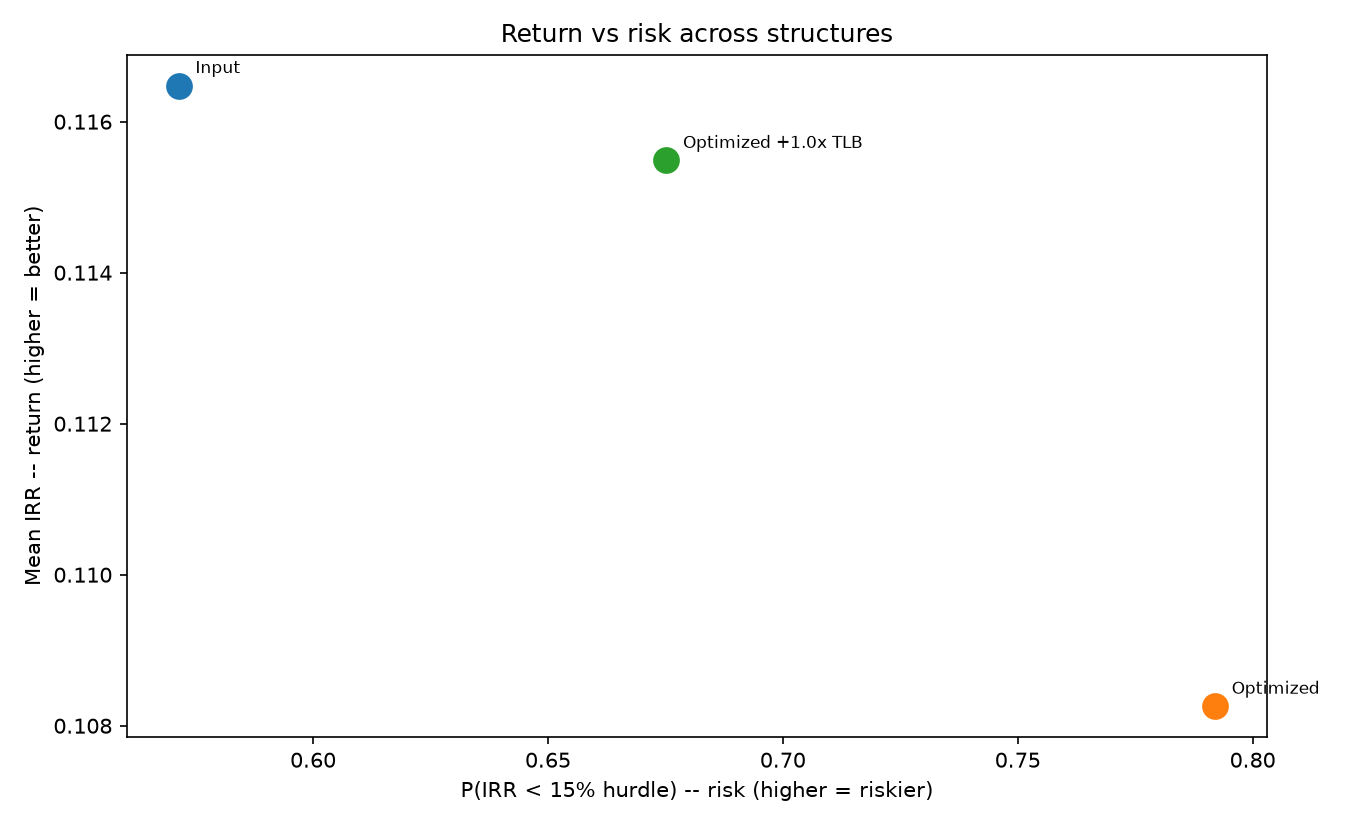
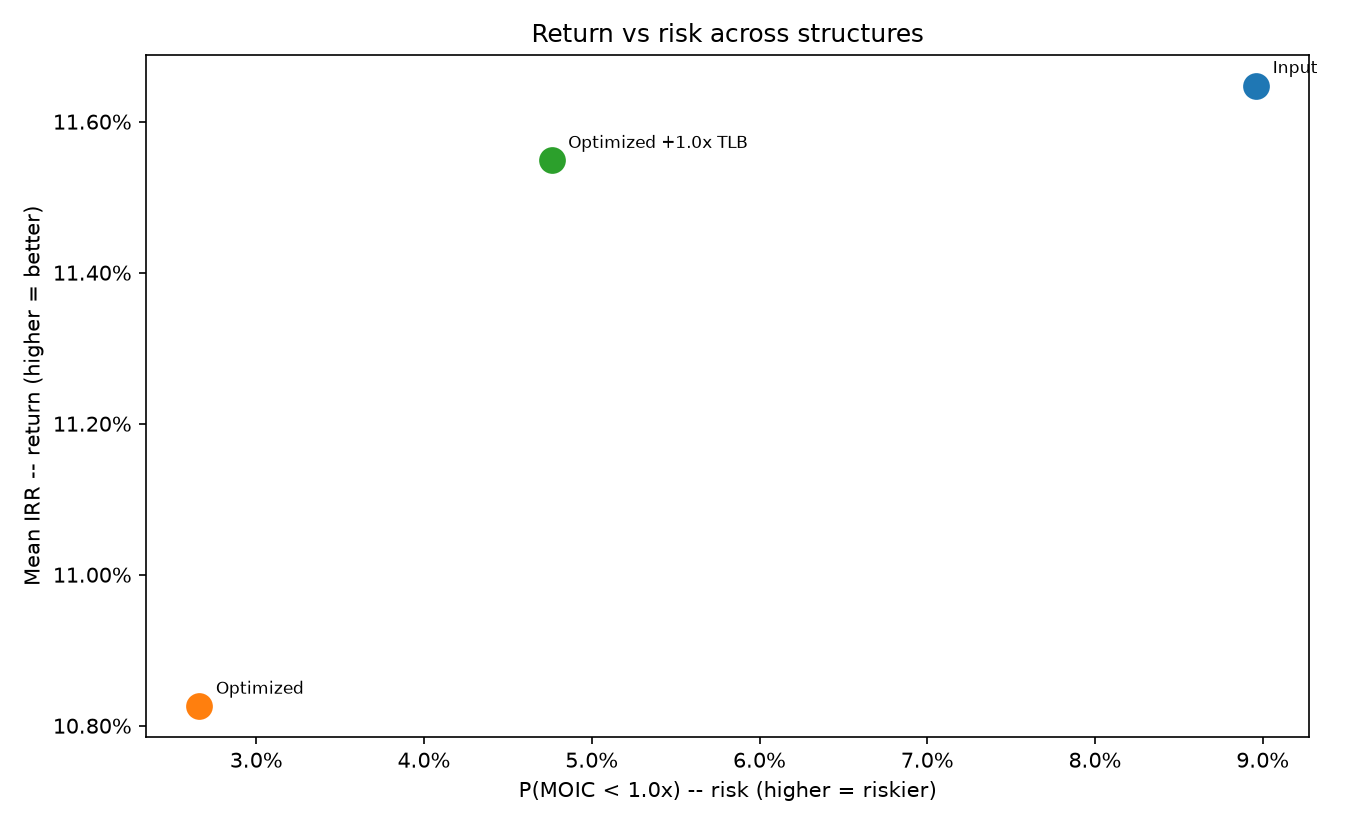
Fix return-vs-risk chart's default risk metric to P(MOIC < 1.0x)
P(IRR < hurdle) falls as leverage rises whenever leverage lifts the
median IRR above the hurdle -- it made a genuinely riskier, more levered
structure look safer on the return-vs-risk chart. Default risk_metric is
now prob_moic_below_1 (outright loss-of-capital probability), which rises
monotonically with leverage the way risk actually should.
prob_irr_below_hurdle and expected_shortfall_10pct remain selectable.

Both axes now formatted as percentages (matplotlib.ticker.PercentFormatter).

Regenerated docs/simulate/structure_comparison.png from
example_midmarket_stress.yaml with the new default. Added a test
confirming the default risk metric ranks the most levered of three
structures as riskiest on the real stress config, not a synthetic one.

corefin run/optimize output unchanged.

diff --git a/src/corefin/simulate/charts.py b/src/corefin/simulate/charts.py
@@ -11,6 +11,7 @@ matplotlib.use("Agg")  # headless: writing PNG files, no display needed
 
 import matplotlib.pyplot as plt
 import numpy as np
+from matplotlib.ticker import PercentFormatter
 
 from corefin.simulate.analytics import DownsideAnalytics
 from corefin.simulate.attribution import BridgeSummary
@@ -158,16 +159,31 @@ def render_tornado_chart(bars: list[TornadoBar], path: str) -> None:
 def render_structure_comparison_chart(
     entries: list[StructureComparisonEntry],
     path: str,
-    risk_metric: str = "prob_irr_below_hurdle",
+    risk_metric: str = "prob_moic_below_1",
 ) -> None:
     """Mean IRR (return, higher = better) against a risk measure where
     HIGHER always means riskier, so "further right and up" reads as
     unambiguously better on both axes and "further right" always reads as
-    worse on the risk axis specifically. Defaults to P(IRR < hurdle);
-    "expected_shortfall_10pct" plots the *negative* of expected shortfall
-    (still higher = riskier, since a lower/more-negative raw expected
-    shortfall is the worse outcome) as the alternative."""
-    if risk_metric == "prob_irr_below_hurdle":
+    worse on the risk axis specifically.
+
+    Defaults to P(MOIC < 1.0x) -- outright loss-of-capital probability,
+    which rises monotonically with leverage the way risk actually should.
+    P(IRR < hurdle) is *not* the default despite reading naturally as a
+    risk measure: it falls as leverage rises whenever leverage lifts the
+    median IRR above the hurdle, which would make a riskier structure
+    look safer on this chart -- still selectable via risk_metric for
+    comparison, but not the default. "expected_shortfall_10pct" plots the
+    *negative* of expected shortfall (still higher = riskier, since a
+    lower/more-negative raw expected shortfall is the worse outcome) as a
+    third alternative."""
+    if risk_metric == "prob_moic_below_1":
+
+        def risk_value(r):
+            return r.prob_moic_below_1
+
+        def risk_label(r):
+            return "P(MOIC < 1.0x) -- risk (higher = riskier)"
+    elif risk_metric == "prob_irr_below_hurdle":
 
         def risk_value(r):
             return r.prob_irr_below_hurdle
@@ -184,7 +200,7 @@ def render_structure_comparison_chart(
     else:
         raise ValueError(
             f"unknown risk_metric {risk_metric!r}, expected "
-            "'prob_irr_below_hurdle' or 'expected_shortfall_10pct'"
+            "'prob_moic_below_1', 'prob_irr_below_hurdle' or 'expected_shortfall_10pct'"
         )
 
     fig, ax = plt.subplots(figsize=(9, 5.5))
@@ -197,6 +213,8 @@ def render_structure_comparison_chart(
         )
     ax.set_xlabel(risk_label(entries[0].downside.returns) if entries else "Risk")
     ax.set_ylabel("Mean IRR -- return (higher = better)")
+    ax.xaxis.set_major_formatter(PercentFormatter(xmax=1.0))
+    ax.yaxis.set_major_formatter(PercentFormatter(xmax=1.0))
     ax.set_title("Return vs risk across structures")
     fig.tight_layout()
     fig.savefig(path, dpi=150)

diff --git a/tests/test_simulate_compare.py b/tests/test_simulate_compare.py
@@ -1,8 +1,10 @@
 import time
+from pathlib import Path
 
 import numpy as np
 import pytest
 
+from corefin.assumptions.loader import load_config
 from corefin.assumptions.schema import RootConfig
 from corefin.checks.corporate_checks import check_balance_sheet_balances
 from corefin.checks.framework import run_checks
@@ -14,6 +16,10 @@ from corefin.simulate.compare import (
 )
 from corefin.timeline import Timeline
 from tests.conftest import minimal_config_dict
+
+EXAMPLE_STRESS_CONFIG_PATH = (
+    Path(__file__).resolve().parent.parent / "configs" / "example_midmarket_stress.yaml"
+)
 
 
 def _config(n_periods: int = 6, **scenario_overrides) -> RootConfig:
@@ -156,3 +162,32 @@ def test_ten_thousand_scenarios_with_regimes_and_fat_tails_two_structures_within
     for entry in entries:
         assert entry.simulation.exit_result.irr.shape == (10_000,)
         run_checks([check_balance_sheet_balances(entry.simulation.model_result.balance_sheet)])
+
+
+def test_default_risk_metric_ranks_most_levered_structure_riskiest_on_stress_config():
+    """P(MOIC < 1.0x) -- the return-vs-risk chart's default risk_metric --
+    must rank structures by leverage the way risk actually should,
+    unlike P(IRR < hurdle) (which can fall as leverage rises). Uses the
+    real advanced-generator example config, not a synthetic one."""
+    config = load_config(EXAMPLE_STRESS_CONFIG_PATH)
+    timeline = Timeline.annual(
+        n_periods=config.timeline.n_periods,
+        n_historical=config.timeline.n_historical,
+        start_year=config.timeline.start_year,
+    )
+    input_values = input_config_decision_values(config)
+    first_dv_name = config.optimizer.decision_variables[0].tranche_name
+    named = {
+        "Low": input_values,
+        "Medium": bump_decision_values(input_values, first_dv_name, 1.0),
+        "High": bump_decision_values(input_values, first_dv_name, 2.0),
+    }
+    entries = compare_structures(config, timeline, named, n_scenarios=3000, seed=7)
+    by_name = {e.name: e for e in entries}
+
+    leverages = [by_name[n].candidate.leverage.total_leverage for n in ("Low", "Medium", "High")]
+    risks = [by_name[n].downside.returns.prob_moic_below_1 for n in ("Low", "Medium", "High")]
+
+    assert leverages == sorted(leverages)  # sanity: the bumps actually increased leverage
+    assert risks == sorted(risks)  # P(MOIC < 1.0x) rises monotonically with leverage
+    assert risks[-1] > risks[0]  # and it's a real, not a flat, difference

diff --git a/tests/test_simulate_charts_excel.py b/tests/test_simulate_charts_excel.py
@@ -112,7 +112,7 @@ def test_render_structure_comparison_chart_writes_png(tmp_path, comparison_bundl
     assert path.stat().st_size > 1000
 
 
-def test_structure_comparison_chart_default_risk_axis_is_prob_below_hurdle(
+def test_structure_comparison_chart_default_risk_axis_is_prob_moic_below_1(
     tmp_path, comparison_bundle
 ):
     _, _, entries, _, _, _, _ = comparison_bundle
@@ -121,6 +121,29 @@ def test_structure_comparison_chart_default_risk_axis_is_prob_below_hurdle(
         with mock.patch("corefin.simulate.charts.plt.subplots", return_value=(fig, ax)):
             with mock.patch("corefin.simulate.charts.plt.close"):
                 render_structure_comparison_chart(entries, str(tmp_path / "unused.png"))
+        plotted_x = sorted(c.get_offsets()[0][0] for c in ax.collections)
+        expected_x = sorted(e.downside.returns.prob_moic_below_1 for e in entries)
+        assert plotted_x == pytest.approx(expected_x)
+        assert "riskier" in ax.get_xlabel().lower()
+        assert "moic" in ax.get_xlabel().lower()
+        # Both axes formatted as percentages.
+        assert "%" in ax.xaxis.get_major_formatter()(0.05)
+        assert "%" in ax.yaxis.get_major_formatter()(0.05)
+    finally:
+        plt.close(fig)
+
+
+def test_structure_comparison_chart_prob_irr_below_hurdle_is_selectable(
+    tmp_path, comparison_bundle
+):
+    _, _, entries, _, _, _, _ = comparison_bundle
+    fig, ax = plt.subplots()
+    try:
+        with mock.patch("corefin.simulate.charts.plt.subplots", return_value=(fig, ax)):
+            with mock.patch("corefin.simulate.charts.plt.close"):
+                render_structure_comparison_chart(
+                    entries, str(tmp_path / "unused.png"), risk_metric="prob_irr_below_hurdle"
+                )
         plotted_x = sorted(c.get_offsets()[0][0] for c in ax.collections)
         expected_x = sorted(e.downside.returns.prob_irr_below_hurdle for e in entries)
         assert plotted_x == pytest.approx(expected_x)

diff --git a/README.md b/README.md
@@ -622,9 +622,14 @@ percentile markers and a hurdle line, a net-leverage fan chart, a
 covenant-breach/distress-probability-by-year chart, a value-creation
 bridge waterfall, a tornado chart, and a return-vs-risk scatter across
 the compared structures (mean IRR against a risk measure where **higher
-always means riskier** — P(IRR below the hurdle) by default, so "further
-right" never means anything but worse; `expected_shortfall_10pct`, sign-
-flipped so higher still means riskier, is available as an alternative).
+always means riskier** — P(MOIC < 1.0x) by default, so "further right"
+never means anything but worse. P(IRR < hurdle) is deliberately *not*
+the default despite looking like a natural risk axis: it falls as
+leverage rises whenever leverage lifts the median IRR above the hurdle,
+which would make a riskier structure look safer on this chart — it's
+still selectable via `risk_metric`, alongside `expected_shortfall_10pct`
+(sign-flipped so higher still means riskier). Both axes are formatted as
+percentages.
 
 Named stress scenarios are timestamped in the output with the calendar
 year (or "Period N" if the config has no `start_year`) the shock actually
@@ -667,8 +672,10 @@ leverage lifts the middle of the distribution enough that fewer scenarios
 fall short of the 15% hurdle specifically, even though the tail is worse.
 That's not a contradiction — it's two different questions ("how often do
 we miss the hurdle" vs. "how bad is the worst case") with different
-answers, which is exactly why the engine reports both instead of
-collapsing risk into one number.
+answers — but it's exactly why the return-vs-risk chart defaults to
+P(MOIC < 1.0x) rather than P(IRR < hurdle): a risk axis that can make a
+more levered, genuinely riskier structure look safer would be actively
+misleading.
 
 ![Structure comparison: return vs risk](docs/simulate/structure_comparison.png)
 
